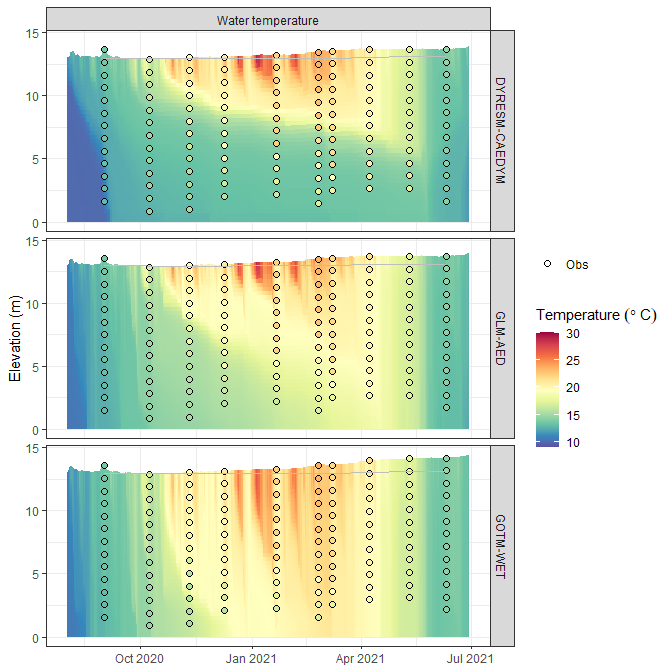
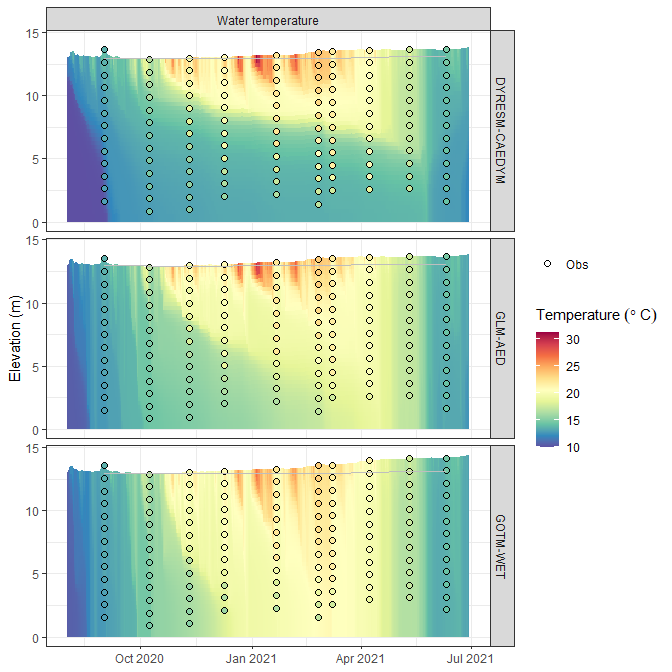
Update README

diff --git a/README.md b/README.md
@@ -1,7 +1,7 @@
 
 <!-- README.md is generated from README.Rmd. Please edit that file -->
 
-# AEME <a href="https://expert-guide-29ve1vw.pages.github.io/"><img src="man/figures/logo.png" align="right" height="120" alt="AEME website" /></a>
+# AEME <a href="https://limnotrack.github.io/AEME/"><img src="man/figures/logo.png" align="right" height="120" alt="AEME website" /></a>
 
 <!-- badges: start -->
 
@@ -16,7 +16,16 @@ coverage](https://codecov.io/gh/limnotrack/AEME/branch/main/graph/badge.svg)](ht
 
 The Aquatic Ecosystem Model Ensemble (AEME) package allows you to setup
 and run an ensemble of aquatic ecosystem models. The models are
-[DYRESM-CAEDYM](), [GLM-AED]() and [GOTM-WET]().
+[DYRESM-CAEDYM](https://github.com/AquaticEcoDynamics/dy-cd),
+[GLM-AED](https://aquatic.science.uwa.edu.au/research/models/GLM/) and
+[GOTM-WET](https://gitlab.com/wateritech-public/waterecosystemstool/wet).
+
+## Development
+
+This package was developed by [LimnoTrack](http://limnotrack.com/) as
+part of the Lake Ecosystem Restoration New Zealand Modelling Platform
+(LERNZmp) project.
+<a href="http://limnotrack.com/"><img src="man/figures/limnotrack_border.jpg" alt="LimnoTrack website" align="right" height="80"/></a>
 
 ## Installation
 
@@ -40,32 +49,23 @@ library(AEME)
 #> The following object is masked from 'package:stats':
 #> 
 #>     time
-```
-
-``` r
 ## basic example code
 tmpdir <- tempdir()
 aeme_dir <- system.file("extdata/lake/", package = "AEME")
 # Copy files from package into tempdir
 file.copy(aeme_dir, tmpdir, recursive = TRUE)
 #> [1] TRUE
-```
-
-``` r
 path <- file.path(tmpdir, "lake")
 aeme <- yaml_to_aeme(path = path, "aeme.yaml")
 #> Linking to GEOS 3.12.1, GDAL 3.8.4, PROJ 9.3.1; sf_use_s2() is FALSE
 #> Warning in aeme_constructor(lake = yaml$lake, time = yaml$time, configuration = yaml$configuration, : Lake area [152343 m2] is different to the area calculated from the lake
 #> shape [152433.09 m2].
-```
-
-``` r
 model_controls <- get_model_controls(use_bgc = TRUE)
 model <- c("dy_cd", "glm_aed", "gotm_wet")
 aeme <- build_aeme(path = path, aeme = aeme, model = model,
                             model_controls = model_controls,
                             ext_elev = 5, use_bgc = TRUE)
-#> Building simulation for Wainamu [2024-06-11 22:08:20]
+#> Building simulation for Wainamu [2024-08-27 06:16:09]
 #> Missing state variables in inflows: PHY_crypt
 #> Added default values for missing variables.
 #> Using observed water level
@@ -78,7 +78,6 @@ aeme <- build_aeme(path = path, aeme = aeme, model = model,
 #> Writing DYRESM configuration
 #> [1] "TEMPTURE SALINITY DO PO4 DOPL POPL PIP TP NH4 NO3 DONL PONL TN DOCL POCL SiO2 CYANO CHLOR CRYPT FDIAT TCHLA SSOL1"
 #> Writing DYRESM control file
-#> Downsampling bathymetry
 #> Building GLM3-AED2 model for lake wainamu
 #> Copied in GLM nml file
 #> Copied in AED nml file
@@ -121,25 +120,22 @@ aeme <- build_aeme(path = path, aeme = aeme, model = model,
 #> instances/diatoms/initialization/sNW 0.05 replaced with 0.038
 #> instances/diatoms/initialization/sPW 0.005 replaced with 0.0024
 #> instances/abiotic_water/initialization/sDIMW 4 replaced with 3
-```
-
-``` r
 aeme <- run_aeme(aeme = aeme, model = model, verbose = FALSE, 
                       path = path, parallel = TRUE)
-#> Running models in parallel... [2024-06-12 10:08:33]
-#> Model run complete![2024-06-12 10:11:17]
-#> Reading models in parallel... [2024-06-12 10:11:18]
-#> Model reading complete![2024-06-12 10:11:21]
+#> Running models in parallel... [2024-08-27 18:16:13]
+#> Model run complete![2024-08-27 18:17:58]
+#> Reading models in parallel... [2024-08-27 18:17:59]
+#> Model reading complete![2024-08-27 18:18:12]
 ```
 
-The model input and output (I/O) is handled as it’s own S4 object of
-class `aeme`. This allows for the standardisation and generalisation of
+The model input and output is handled as it’s own S4 object of class
+`aeme`. This allows for the standardisation and generalisation of
 functions for this class alongside ensuring integrity and validity to
 it’s structure.
 
 ``` r
 class(aeme)
-#> [1] "aeme"
+#> [1] "Aeme"
 #> attr(,"package")
 #> [1] "AEME"
 ```
@@ -170,13 +166,10 @@ aeme
 #> Lake: Present; Level: Present
 #> -------------------------------------------------------------------
 #>   Input
-#> Inital profile: Present; Inital depth: 13.07m; Hypsograph: Present (n=132);
-#> Meteo: Present; Use longwave: FALSE; Kw: 1.31
+#> Inital profile: Present; Inital depth: 13.07m; Hypsograph: Present (n=44);
+#> Meteo: Present; Use longwave: TRUE; Kw: 1.31
 #> -------------------------------------------------------------------
 #>   Inflows
-#> Data: Present; Scaling factors: DY-CD: 1; GLM-AED: 1; GOTM-WET: 1
-#> -------------------------------------------------------------------
-#>   Outflows
 #> Data: Present; Scaling factors: DY-CD: 1; GLM-AED: 1; GOTM-WET: 1
 #> -------------------------------------------------------------------
 #>   Outflows
@@ -185,24 +178,28 @@ aeme
 #>   Water balance
 #> Method: 2; Use: obs; Modelled: Absent; Water balance: Present
 #> -------------------------------------------------------------------
+#>   Parameters: 
+#> Number of parameters: 0
+#> -------------------------------------------------------------------
 #>   Output: 
-#> DY-CD: Present
-#> GLM-AED: Present
-#> GOTM-WET: Present
+#> Number of ensembles: 1
+#> DY-CD:    1
+#> GLM-AED:  1
+#> GOTM-WET: 1
 ```
 
 Model data can be visualised easily using the `plot_output()` function
 
 ``` r
-p1 <- plot_output(aeme = aeme, model = model, var_sim = "HYD_temp", 
-                  level = TRUE, var_lims = c(9, 30))
+p1 <- plot_output(aeme = aeme, model = model, var_sim = "HYD_temp")
 p1
 #> Warning: Using size for a discrete variable is not advised.
-#> Warning: Removed 240 rows containing missing values or values outside the scale range
+#> Warning: Removed 246 rows containing missing values or values outside the scale range
 #> (`geom_col()`).
 ```
 
 <img src="man/figures/README-plot_output-HYD_temp-1.png" width="100%" />
+
 Also, visualising lake level plots.
 
 ``` r
